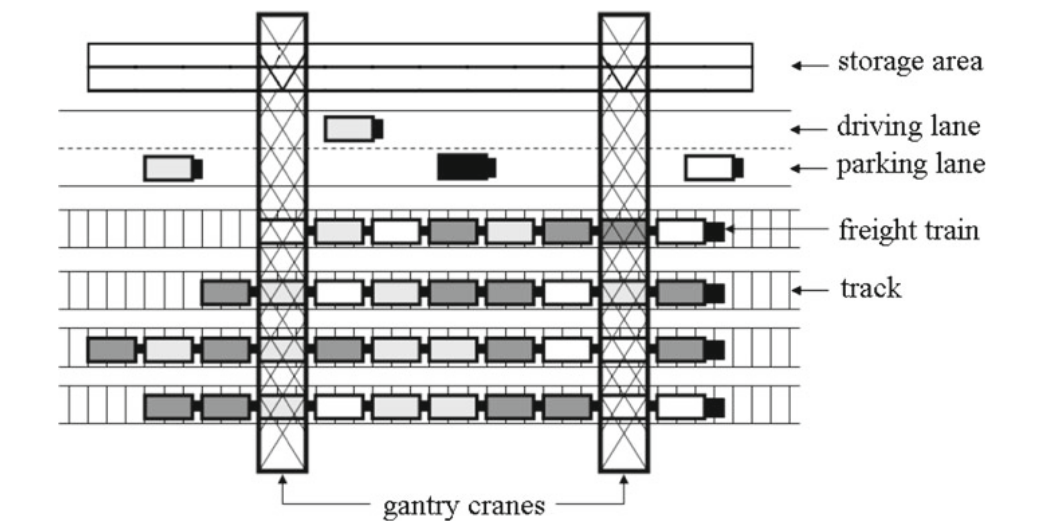
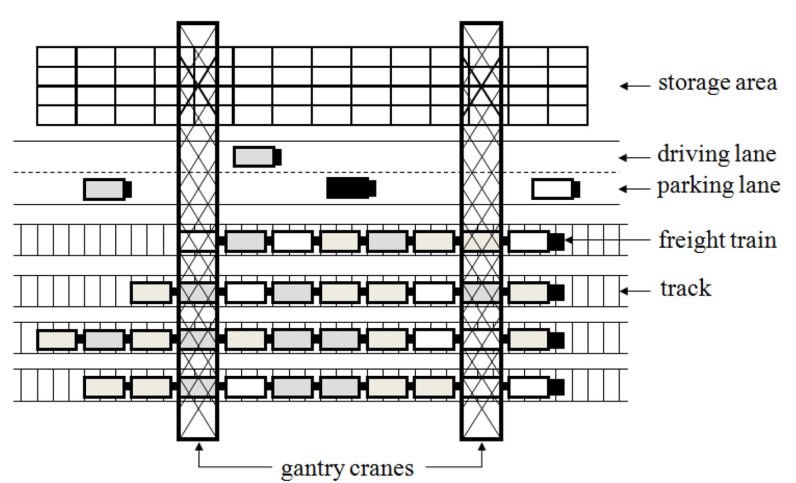
updated OSI slides

diff --git a/OSI/osi_slides.tex b/OSI/osi_slides.tex
@@ -178,7 +178,7 @@
 \end{itemize}
 \begin{figure}
 \centering
-\includegraphics[width=0.5\textwidth]{images/container_terminal.png}
+\includegraphics[width=0.8\textwidth]{images/t5.png}
 \end{figure}
 \end{frame}
 
@@ -186,10 +186,13 @@
 \frametitle{Literatur Überblick}
 
 \begin{itemize}
-  \item \textbf{Bruns et. al. (2015)}: Complexity results for storage loading problems with stacking constraints.
-  \item \textbf{Caserta et. al. (2012)}: A mathematical formulation and complexity considerations for the blocks relocation problem.
-  \item \textbf{Janstrup et. al. (2012)}: A constraint programming model for fast optimal stowage of container vessel bays.
-  \item \textbf{Jaehn (2013)}: Positioning of loading units in a transshipment yard storage area.
+  \item \textbf{Kim et al. (2000)}: Deriving decision rules to locate export containers in container yards
+  \item \textbf{Kang et al. (2006)}: Deriving stacking strategies for export containers with uncertain weight information
+  \item \textbf{Delgado et al. (2012)}: A constraint programming model for fast optimal stowage of container vessel bays
+  \item \textbf{Jaehn (2013)}: Positioning of loading units in a transshipment yard storage area
+  \item \textbf{Bruns et al. (2015)}: Complexity results for storage loading problems with stacking constraints
+  \item \textbf{Le et al. (2016)}: MIP-based approaches for robust storage loading problems with stacking constraints
+  % \item \textbf{Caserta et. al. (2012)}: A mathematical formulation and complexity considerations for the blocks relocation problem.
 \end{itemize}
 
 \end{frame}
@@ -266,7 +269,7 @@ wobei die Stacking Constraints $\boldsymbol{s_{ij}}$, die Placement Constraints 
 \frametitle{Stacking Constraints}
 \begin{itemize}
     \item Schwerere Items dürfen nicht auf leichteren platziert werden
-    \item Längere Items dürfen nicht auf kürzeren platziert werden
+    \item Größere Items dürfen nicht auf kleineren platziert werden
     \item Items bestimmter Materialien / Zielorte dürfen nicht aufeinander gestapelt werden\newline
 \end{itemize}
 Sämtliche Stacking Constraints werden in einer Binärmatrix $\boldsymbol{S} = (\boldsymbol{s_{ij}})_{n \times n}$ kodiert, wobei:
@@ -281,7 +284,7 @@ Sämtliche Stacking Constraints werden in einer Binärmatrix $\boldsymbol{S} = (
 
 \begin{frame}
 \frametitle{Stacking Constraints}
-Diese Matrix lässt sich als gerichteter Graph mit $\boldsymbol{n}$ Knoten \newline und Kanten $\boldsymbol{i} \rightarrow \boldsymbol{j}$ für alle $\boldsymbol{s_{ij}} = 1$ repräsentieren.\newline
+Diese Matrix lässt sich als gerichteter Graph mit $\boldsymbol{n}$ Knoten $\boldsymbol{i} \in \boldsymbol{I}$ \newline und Kanten $\boldsymbol{i} \rightarrow \boldsymbol{j}$ für alle $\boldsymbol{s_{ij}} = 1$ repräsentieren.\newline
 
 \begin{figure}[H]
   \begin{subfigure}[b]{0.45\textwidth}
@@ -362,25 +365,25 @@ $\boldsymbol{c_{iq}} \coloneqq d_{man}(\boldsymbol{O_i}, \boldsymbol{F_q})$
     \item Länge / Gewicht der Items und Eigenschaften der Stacks
     \item Spezielle Anforderungen der Items (Kühlcontainer, ...)
     \item Tendenziell mehr erlaubt als verboten (rand(0, 1) zu restriktiv)
-    \item Über sehr hohe Kostenwerte umgesetzt
+    \item Über sehr hohe Kostenwerte umgesetzt\newline
 \end{itemize}
 In Binärmatrix $\boldsymbol{T} = (\boldsymbol{t_{iq}})_{n \times m}$ kodiert, wobei:
-\[
+$
     \boldsymbol{t_{iq}} =
 \begin{cases}
     1, & \text{wenn Item $\boldsymbol{i}$ in Stack $\boldsymbol{q}$ platziert werden darf }\\
     0, & \text{sonst}
 \end{cases}
-\]
-
-Für die Transportkosten Matrix $\boldsymbol{C} = (\boldsymbol{c_{iq}})_{n \times m}$ gilt:
-\[
+$
+\\[20pt]
+Für die Transportkosten-Matrix $\boldsymbol{C} = (\boldsymbol{c_{iq}})_{n \times m}$ gilt:
+$
     \boldsymbol{c_{iq}} =
 \begin{cases}
     d_{man}(\boldsymbol{O_i}, \boldsymbol{F_q}), & \text{wenn $\boldsymbol{t_{iq}} = 1$}\\
     \infty, & \text{sonst}
 \end{cases}
-\]
+$
 \end{frame}
 
 %------------------------------------------------
@@ -390,13 +393,13 @@ Für die Transportkosten Matrix $\boldsymbol{C} = (\boldsymbol{c_{iq}})_{n \time
 \begin{frame}
 \frametitle{Problem Settings}
 
-\textbf{Stack Kapazitäten}: $\boldsymbol{b} = 2, 3, (4)$
+\textbf{Stack-Kapazitäten}: $\boldsymbol{b} = 2, 3, (4)$
 \begin{itemize}
   \item Zulässigkeitsproblem $\boldsymbol{b=2}$ mit $\boldsymbol{s_{ij}}$ und $\boldsymbol{t_{iq}}$ NP-schwer
   \item Zulässigkeitsproblem $\boldsymbol{b=3}$ mit $\boldsymbol{s_{ij}}$ NP-schwer
 \end{itemize}
 
-\textbf{Größen der Instanzen}:
+\textbf{Instanzgrößen}:
 \begin{itemize}
   \item klein (\textbf{s}) ($\leq 100$ Items)
   \item mittel (\textbf{m}) ($\approx 300$ Items)
@@ -422,16 +425,16 @@ Die Placement Constraints gelten als verletzt, wenn eine Lösung eine Item-Zuwei
 \end{frame}
 
 \begin{frame}
-\frametitle{Generierung der Testdaten}
+\frametitle{Testdaten-Generierung}
 
 \begin{itemize}
-  \item Anzahl der Instanzen: \textcolor{red}{20}\newline
+  \item Anzahl der Instanzen: \textcolor{red}{$\boldsymbol{20}$}\newline
   \item Anzahl der Items: $\boldsymbol{n}$
   \item Stack Kapazität: $\boldsymbol{b}$
-  \item Anzahl der Stacks: $\boldsymbol{m}$ = $\boldsymbol{n} / \boldsymbol{b}$ + $\textcolor{red}{20 \%}$\newline
-  \item Stacking Constraints: \textcolor{red}{Variante 2}
-  \item Placement Constraints: $\textcolor{red}{70 \%}$ erlaubt
-  \item Kosten: \textcolor{red}{Manhattan-Metrik}
+  \item Anzahl der Stacks: $\boldsymbol{m}$ = $\boldsymbol{n} / \boldsymbol{b}$ + $\textcolor{red}{\boldsymbol{20 \%}}$\newline
+  \item Stacking Constraints: \textcolor{red}{\textbf{Variante 2}}
+  \item Placement Constraints: $\textcolor{red}{\boldsymbol{70 \%}}$ erlaubt
+  \item Kosten: \textcolor{red}{\textbf{Manhattan-Metrik}}
   \begin{itemize}
     \item Item- und Stackpositionen ($x, y$)
     \item Item- und Stack-Längen, Item- und Stack-Breiten
@@ -815,8 +818,8 @@ $\boldsymbol{I} := \{0, 1, 2, 3, 4, 5, 6\} \quad\quad\quad \boldsymbol{b} := 2 \
     \hline
      & \textbf{BinP} & \textbf{3Idx} \\ \hline
     \textbf{Optimal} & $ \textcolor{red}{0 \%}$ & $ \textcolor{mygreen}{35 \%}$ \\ \hline
-    \textbf{Laufzeit} & $\textcolor{red}{-}$ & \O $\thinspace \textcolor{mygreen}{0.9 s}$ \\ \hline
-    \textbf{Abweichung} & $\textcolor{red}{-}$ & \O $\thinspace \textcolor{mygreen}{2.0 \%}$ \\ \hline
+    \textbf{Laufzeit} & $\textcolor{red}{---}$ & \O $\thinspace \textcolor{mygreen}{0.9 s}$ \\ \hline
+    \textbf{Abweichung} & $\textcolor{red}{---}$ & \O $\thinspace \textcolor{mygreen}{2.0 \%}$ \\ \hline
 \end{tabular}}
 \end{subfigure}
 % $\quad\quad\quad\quad$
@@ -859,23 +862,12 @@ Laufzeit: \O $\thinspace \boldsymbol{0.02 s}$
 
 \begin{figure}
 \centering
-\includegraphics[width=0.3\textwidth]{images/na.png}
-\includegraphics[width=0.3\textwidth]{images/na.png}
-\includegraphics[width=0.3\textwidth]{images/na.png}
-\caption*{\textsc{Zeitlimit 30min} $\quad\quad\quad$ \textsc{Zeitlimit 45min} $\quad\quad\quad$ \textsc{Zeitlimit 60min}}
+\includegraphics[width=0.3\textwidth]{images/solver_instance_coverage_b=2_m_60s.png}
+\includegraphics[width=0.3\textwidth]{images/solver_instance_coverage_b=2_m_600s.png}
+\includegraphics[width=0.3\textwidth]{images/solver_instance_coverage_b=2_m_1200s.png}
+\caption*{\textsc{Zeitlimit 1min} $\quad\quad\quad$ \textsc{Zeitlimit 10min} $\quad\quad\quad$ \textsc{Zeitlimit 20min}}
 % \end{figure}
 % \begin{figure}[H]
-\begin{subfigure}[b]{0.3\textwidth}
-\centering
-\resizebox{\textwidth}{!}{
-\begin{tabular}{ | l | l | l |}
-    \hline
-     & \textbf{BinP} & \textbf{3Idx} \\ \hline
-    \textbf{Optimal} & $  \%$ & $  \%$ \\ \hline
-    \textbf{Laufzeit} & \O $\thinspace  s$ & \O $\thinspace  s$ \\ \hline
-    \textbf{Abweichung} & \O $\thinspace  \%$ & \O $\thinspace  \%$ \\ \hline
-\end{tabular}}
-\end{subfigure}
 % $\quad\quad\quad\quad$
 \begin{subfigure}[b]{0.3\textwidth}
 \centering
@@ -883,9 +875,20 @@ Laufzeit: \O $\thinspace \boldsymbol{0.02 s}$
 \begin{tabular}{ | l | l | l |}
     \hline
      & \textbf{BinP} & \textbf{3Idx} \\ \hline
-    \textbf{Optimal} & $  \%$ & $ \%$ \\ \hline
-    \textbf{Laufzeit} & \O $\thinspace  s$ & \O $\thinspace  s$ \\ \hline
-    \textbf{Abweichung} & \O $\thinspace \%$ & \O $\thinspace \%$ \\ \hline
+    \textbf{Optimal} & $ \textcolor{red}{0 \%}$ & $ \textcolor{mygreen}{50 \%}$ \\ \hline
+    \textbf{Laufzeit} & $\textcolor{red}{---}$ & \O $\thinspace \textcolor{mygreen}{55.4 s}$ \\ \hline
+    \textbf{Abweichung} & $\textcolor{red}{---}$ & \O $\thinspace \textcolor{mygreen}{0.8 \%}$ \\ \hline
+\end{tabular}}
+\end{subfigure}
+\begin{subfigure}[b]{0.3\textwidth}
+\centering
+\resizebox{\textwidth}{!}{
+\begin{tabular}{ | l | l | l |}
+    \hline
+     & \textbf{BinP} & \textbf{3Idx} \\ \hline
+    \textbf{Optimal} & $ \textcolor{red}{10 \%}$ & $ \textcolor{mygreen}{100 \%}$ \\ \hline
+    \textbf{Laufzeit} & \O $\thinspace \textcolor{red}{581.6 s}$ & \O $\thinspace \textcolor{mygreen}{73.7 s}$ \\ \hline
+    \textbf{Abweichung} & \O $\thinspace \textcolor{red}{0.6 \%}$ & \O $\thinspace \textcolor{mygreen}{0.0 \%}$ \\ \hline
 \end{tabular}}
 \end{subfigure}
 % \end{figure}
@@ -896,18 +899,18 @@ Laufzeit: \O $\thinspace \boldsymbol{0.02 s}$
 \begin{tabular}{ | l | l | l |}
     \hline
      & \textbf{BinP} & \textbf{3Idx} \\ \hline
-    \textbf{Optimal} & $ \%$ & $  \%$ \\ \hline
-    \textbf{Laufzeit} & \O $\thinspace  s$ & \O $\thinspace s$ \\ \hline
-    \textbf{Abweichung} & \O $\thinspace  \%$ & \O $\thinspace  \%$ \\ \hline
+    \textbf{Optimal} & $ 100 \%$ & $ 100 \%$ \\ \hline
+    \textbf{Laufzeit} & \O $\thinspace 869.6 s$ & \O $\thinspace \textcolor{mygreen}{107.8 s}$ \\ \hline
+    \textbf{Abweichung} & \O $\thinspace 0.0 \%$ & \O $\thinspace 0.0 \%$ \\ \hline
 \end{tabular}}
 \end{subfigure}
 \end{figure}
 \centering
 \textbf{2Cap-Heuristik}\linebreak
 \centering
-Abweichung vom Optimum: \O $\thinspace \boldsymbol{ \%}$\linebreak
+Abweichung vom Optimum: \O $\thinspace \boldsymbol{0.8 \%}$\linebreak
 \centering
-Laufzeit: \O $\thinspace \boldsymbol{ s}$
+Laufzeit: \O $\thinspace \boldsymbol{0.1 s}$
 
 \end{frame}
 
@@ -976,7 +979,7 @@ Laufzeit: \O $\thinspace \boldsymbol{ s}$
   \item Item-Tripel bilden (\textsc{\textbf{MCM}(pairs, unmatchedItems)})
   \item Verbleibende Item-Paare zu Tripeln mergen
   \item Item-Paare bilden (\textsc{\textbf{MCM}(remainingItems)})
-  \item Verbleibende Items als unmatched betrachten
+  \item Verbleibende Items als \textquote{unmatched} betrachten
   \item Bipartiten Graph generieren:
   \begin{enumerate}
     \item Items (Item-Tripel, Item-Paare, Unmatched-Items)
@@ -1267,8 +1270,8 @@ Laufzeit: \O $\thinspace \boldsymbol{0.2 s}$
     \hline
      & \textbf{BinP} & \textbf{3Idx} \\ \hline
     \textbf{Optimal} & $ \textcolor{red}{0 \%}$ & $ \textcolor{red}{0 \%}$ \\ \hline
-    \textbf{Laufzeit} & $\textcolor{red}{-}$ & $\textcolor{red}{-}$ \\ \hline
-    \textbf{Abweichung} & $\textcolor{red}{-}$ & $\textcolor{red}{-}$ \\ \hline
+    \textbf{Laufzeit} & $\textcolor{red}{---}$ & $\textcolor{red}{---}$ \\ \hline
+    \textbf{Abweichung} & $\textcolor{red}{---}$ & $\textcolor{red}{---}$ \\ \hline
 \end{tabular}}
 \end{subfigure}
 % $\quad\quad\quad\quad$
@@ -1314,14 +1317,11 @@ Laufzeit: \O $\thinspace \boldsymbol{1.0 s}$
 \begin{frame}
 \frametitle{Ausblick}
 \begin{itemize}
-  \item Weitere Ansätze zu Rating-Systemen für 3CapPerm erarbeiten und implementieren
-  \item andere Zielfunktion - Minimieren der verwendeten Stacks (sichere Lösung) etc.
-  \item 2Cap verbessern (andere Ansätze?)
-  \item 3Cap verbessern (andere Ansätze?)
-  \item 4Cap implementieren basierend auf MCM
+  \item Konstruktive Heuristik für $\boldsymbol{b = 4}$ entwickeln
   \item Verbesserungsverfahren implementieren
-  \item realistischere Test-Instanzen anhand der Daten aus dem Paper generieren
-  \item andere Konfigurationen / Einfluss auf die Schwierigkeit des Problems untersuchen z.B. m = n / b +20%
+  \item Realistischere Test-Instanzen basierend auf \textbf{Briskorn (2018)}
+  \item Einfluss von $\boldsymbol{m}$ auf die Schwierigkeit des Problems untersuchen ($+20\%$, +30\%, ...)
+  \item Evaluation
 \end{itemize}
 \end{frame}
 
